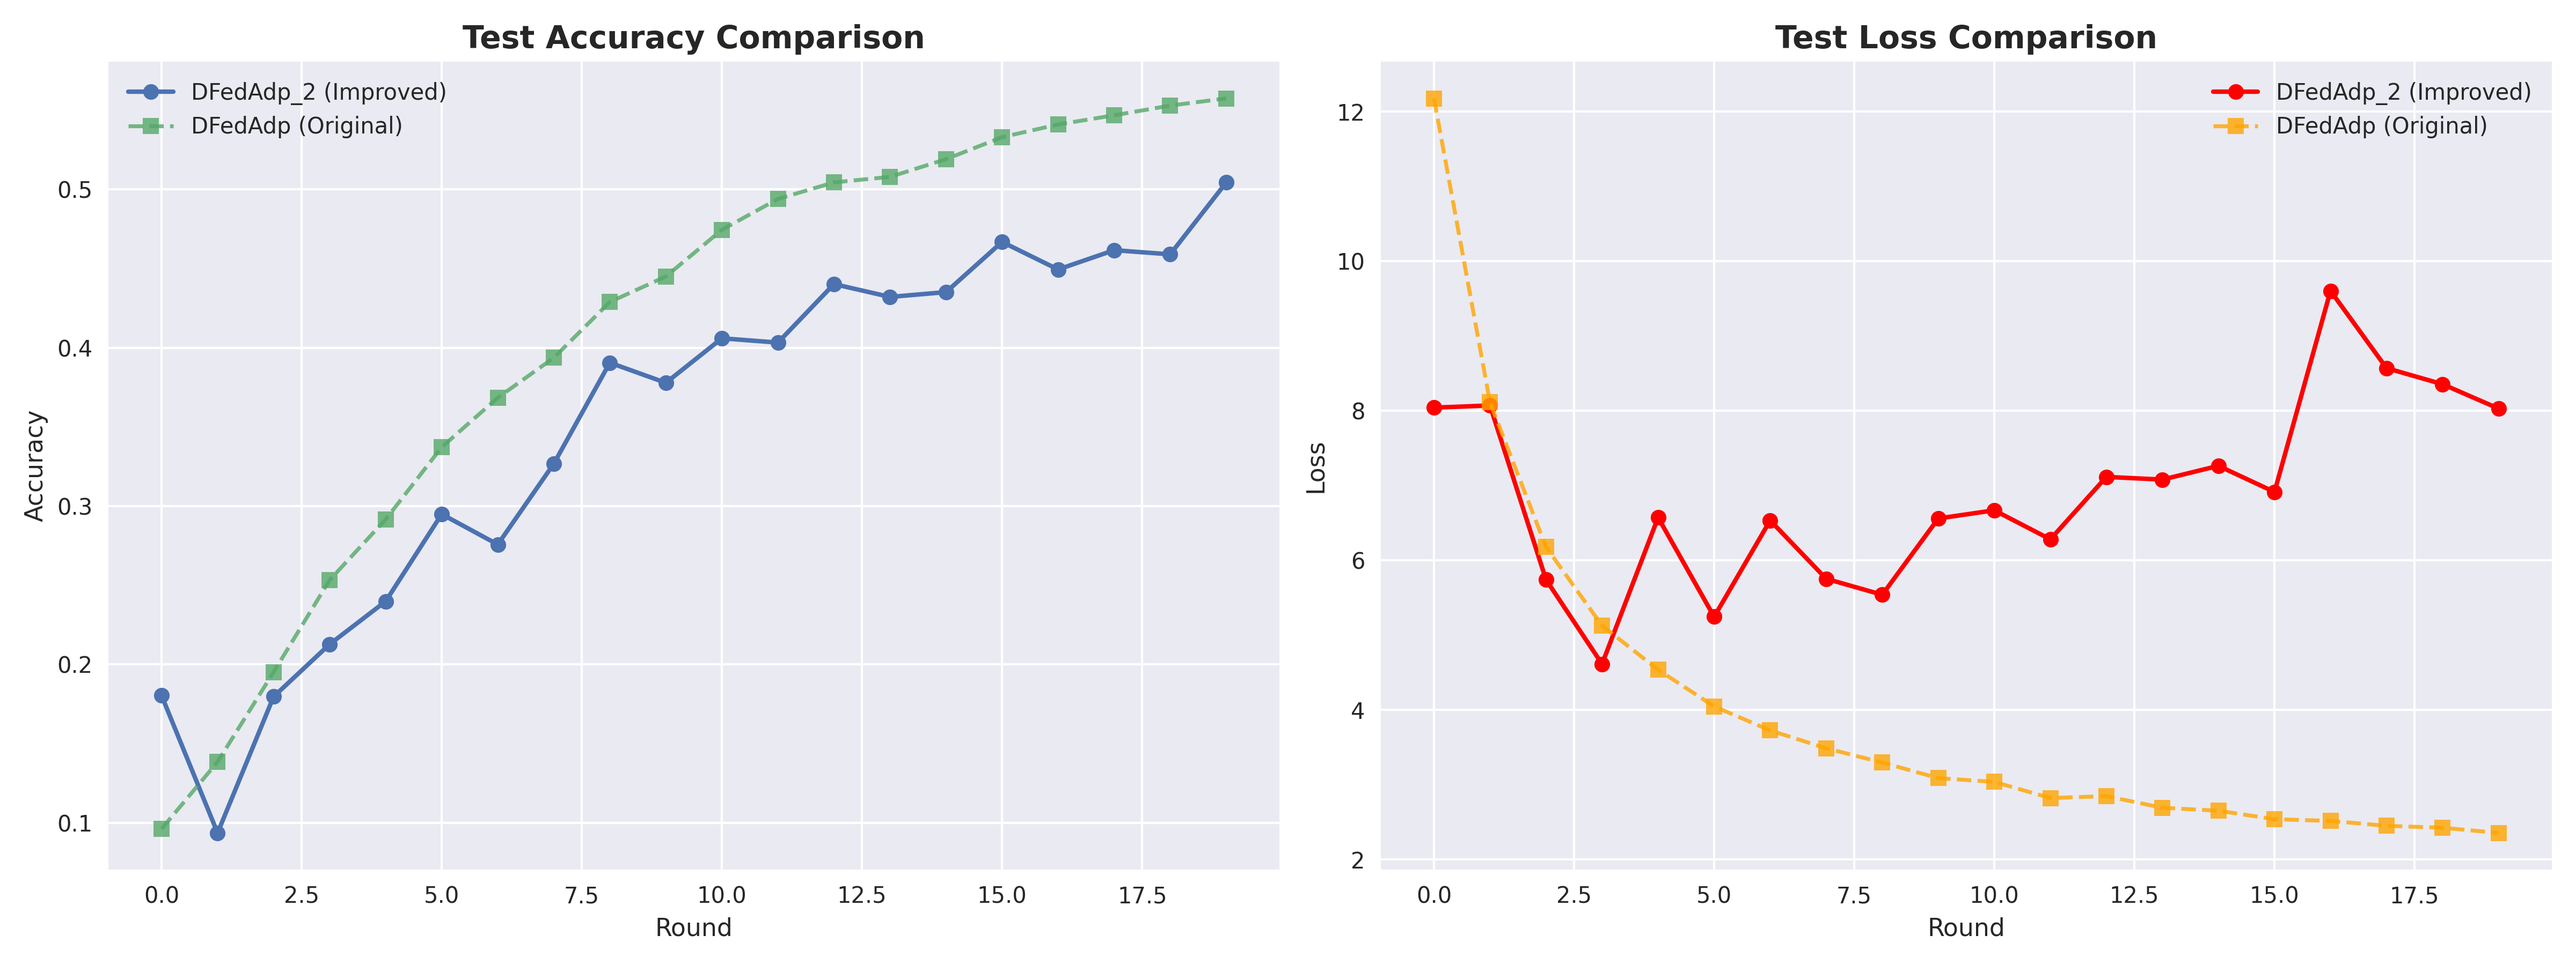
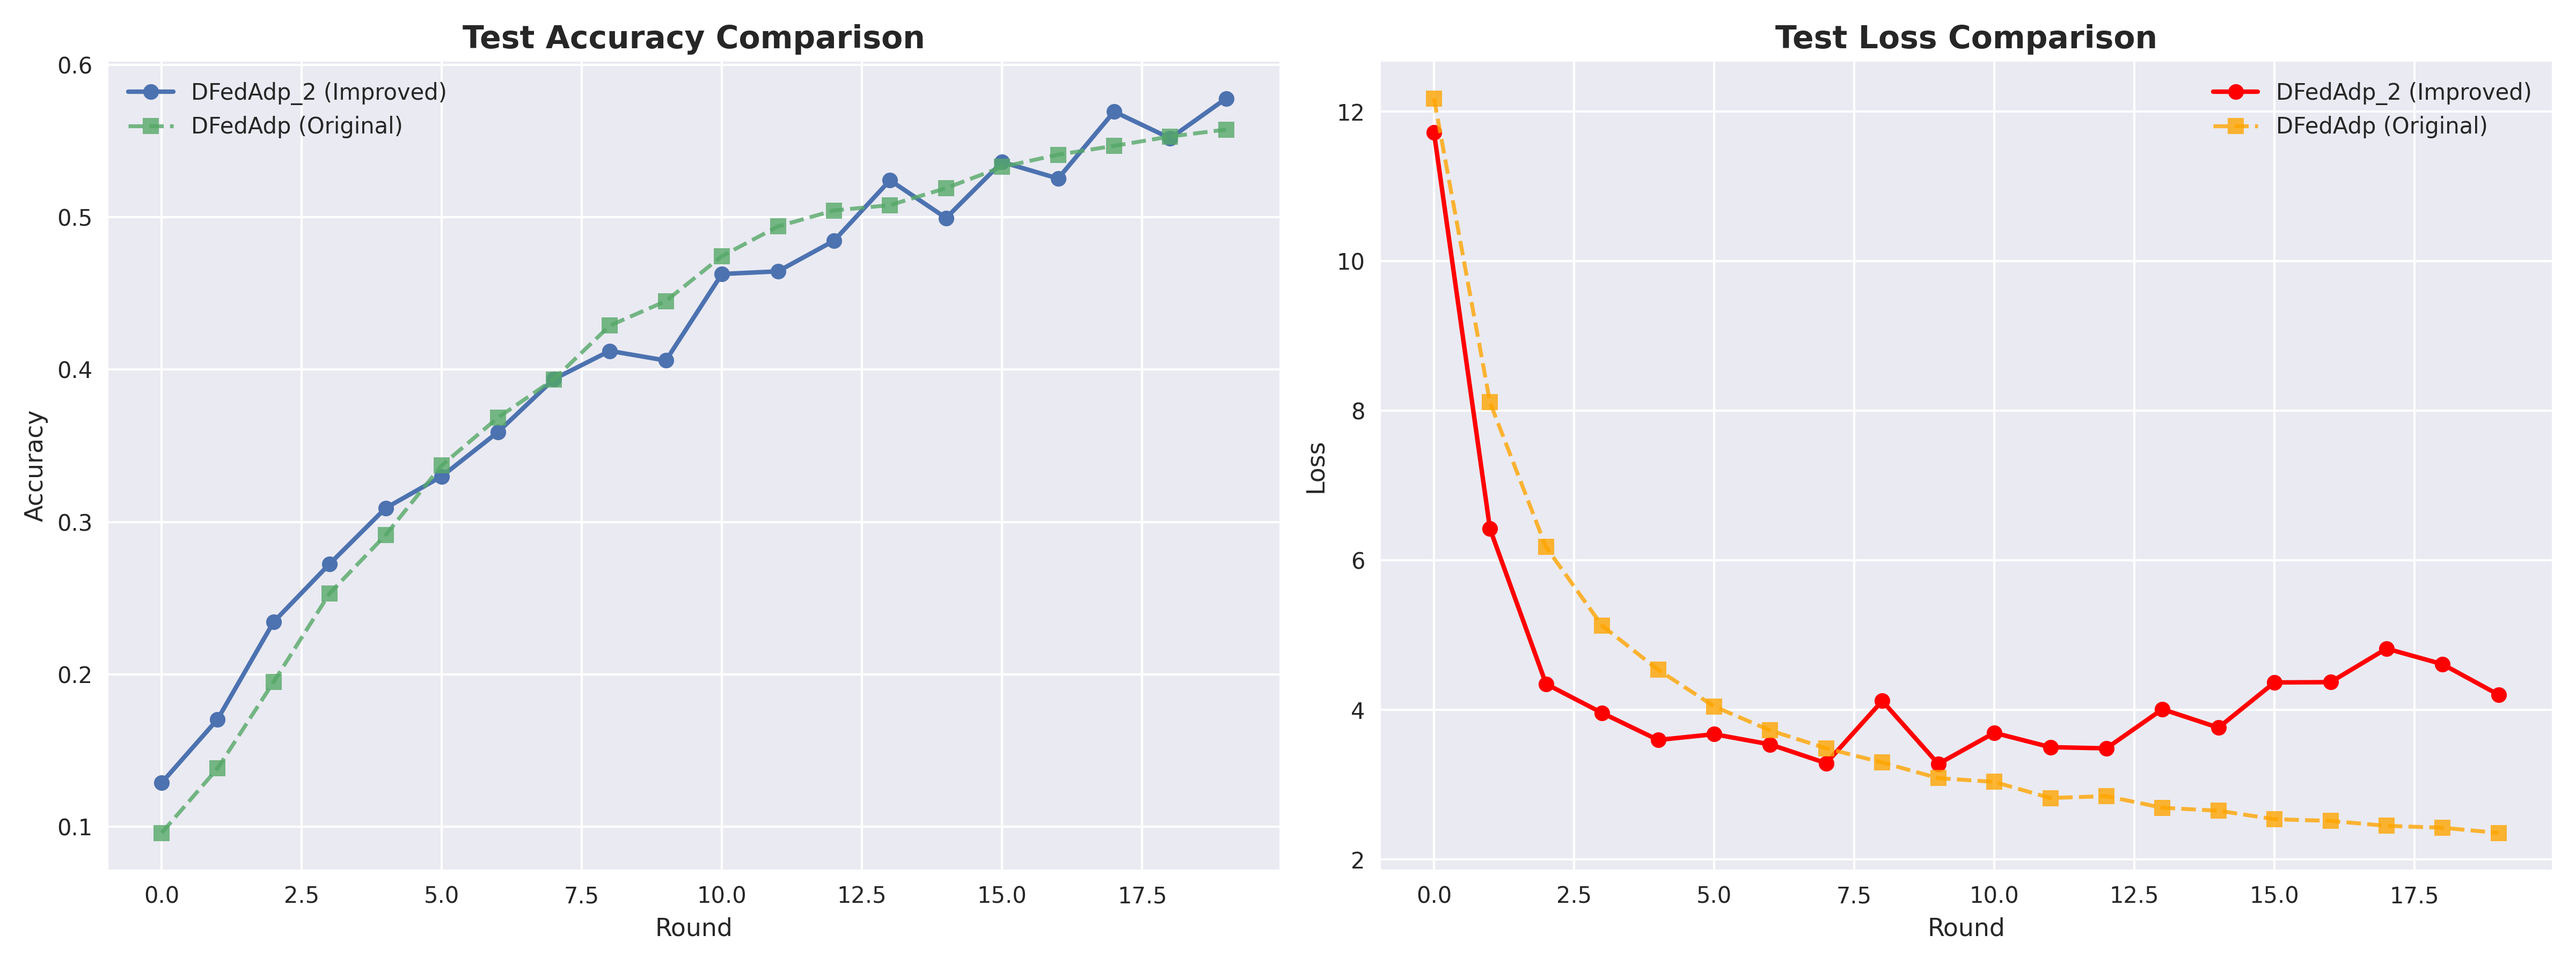
Fix dfedadp2

diff --git a/p2pfl/learning/aggregators/dfedadp2.py b/p2pfl/learning/aggregators/dfedadp2.py
@@ -112,20 +112,27 @@ class DFedAdp_2(Aggregator):
 
         # --- 5. Dynamic Learning Rate Control ---
         avg_cos_sim /= len(model_map)
-        # More conservative dynamic LR: it scales the base_lr rather than replacing it with a large value
-        lr_scale = max(0.1, min(1.0, (2.0 * max(0.0, avg_cos_sim)) / (self.B * self.beta + 1e-6)))
-        self.current_learning_rate = max(self.min_learning_rate, self.base_learning_rate * lr_scale)
+        # More conservative dynamic LR with momentum
+        lr_scale = max(0.2, min(1.0, (2.0 * max(0.0, avg_cos_sim)) / (self.B * self.beta + 1e-6)))
+        target_lr = self.base_learning_rate * lr_scale
+        
+        # Apply momentum to LR updates (keep 80% of previous LR)
+        self.current_learning_rate = 0.8 * self.current_learning_rate + 0.2 * target_lr
+        self.current_learning_rate = max(self.min_learning_rate, self.current_learning_rate)
 
         # --- 6. Final Model Mixing ---
         total_score = sum(fedadp_scores.values())
         psi = {addr: s / total_score if total_score > 0 else 1.0/len(model_map) for addr, s in fedadp_scores.items()}
         
-        # Combine Adaptive Psi with Consensus Metro weights smoothly
-        # We use a 0.5-0.5 mix to ensure neither pure consensus nor pure adaptive dominates
+        # Warm-up mechanism: rely more on consensus in early rounds (round <= 3)
+        # This prevents the initial "shock" of Non-IID data
+        adaptive_weight = 0.5 if current_round > 3 else 0.2
+        consensus_weight = 1.0 - adaptive_weight
+        
         final_mixing_weights = {}
         for addr in model_map:
             # Mixture of MH weights and adaptive similarity weights
-            final_mixing_weights[addr] = 0.5 * psi[addr] + 0.5 * metro_weights[addr]
+            final_mixing_weights[addr] = adaptive_weight * psi[addr] + consensus_weight * metro_weights[addr]
         
         # Re-normalize to ensure sum is 1.0
         total_final_w = sum(final_mixing_weights.values())

diff --git a/p2pfl/learning/aggregators/aggregator.py b/p2pfl/learning/aggregators/aggregator.py
@@ -65,7 +65,7 @@ class Aggregator(NodeComponent):
 
         # --- START MODEL PACKAGING ADDITION ---
         # Highly relaxed threshold for quick testing (epsilon 0.1, patience 1)
-        self.packager = ModelPackager(epsilon=0.1, patience=1)
+        # self.packager = ModelPackager(epsilon=0.1, patience=1)
         # --- END MODEL PACKAGING ADDITION ---
 
     def aggregate(self, models: list[P2PFLModel]) -> P2PFLModel:
@@ -242,14 +242,14 @@ class Aggregator(NodeComponent):
                 result = self.aggregate(self.__models)
                 
                 # --- START MODEL PACKAGING ADDITION ---
-                if state is not None and hasattr(state, "experiment_logger") and state.experiment_logger is not None:
-                    self.packager.check_and_package(
-                        models=self.__models, 
-                        aggregated_model=result, 
-                        round_num=self.__current_round or 0, 
-                        output_path=state.experiment_logger.output_dir,
-                        node_addr=self.normalize_addr(self.addr)
-                    )
+                # if state is not None and hasattr(state, "experiment_logger") and state.experiment_logger is not None:
+                #     self.packager.check_and_package(
+                #         models=self.__models, 
+                #         aggregated_model=result, 
+                #         round_num=self.__current_round or 0, 
+                #         output_path=state.experiment_logger.output_dir,
+                #         node_addr=self.normalize_addr(self.addr)
+                #     )
                 # --- END MODEL PACKAGING ADDITION ---
                 
             finally:
